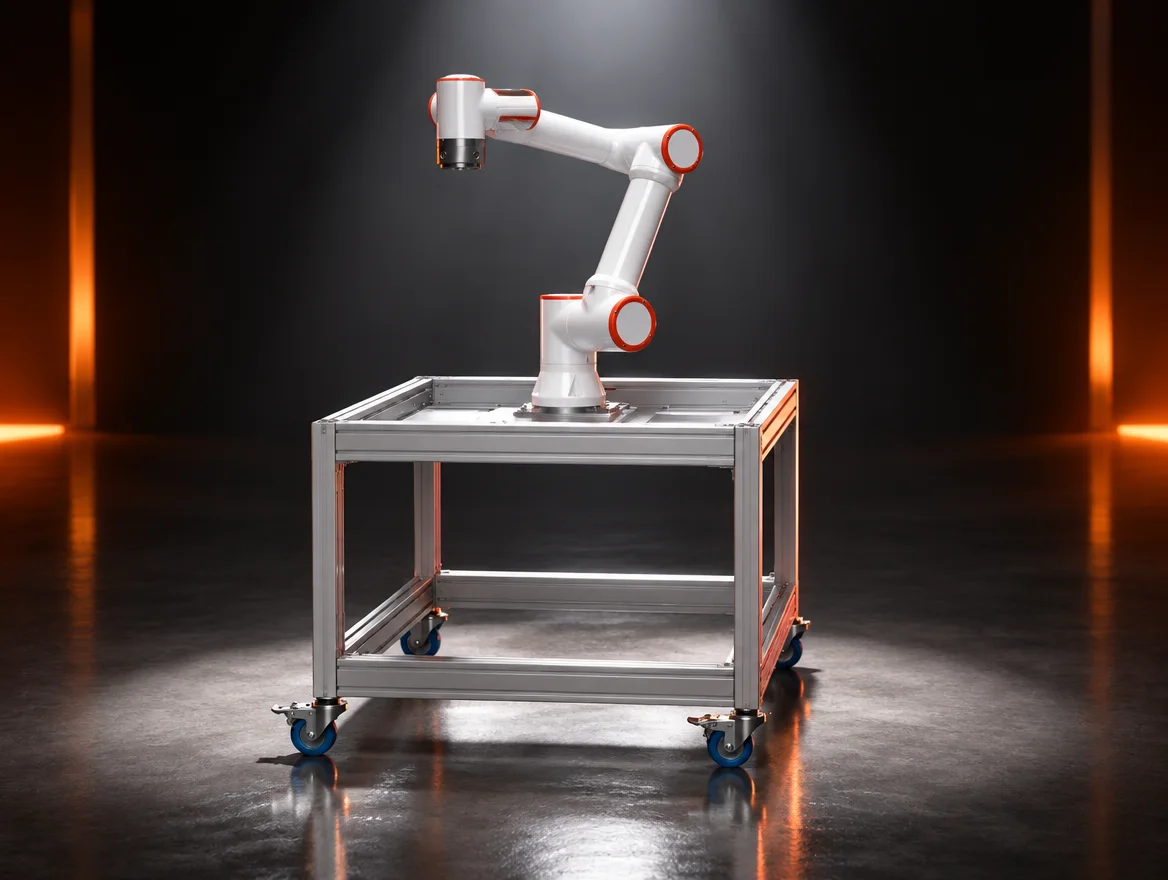
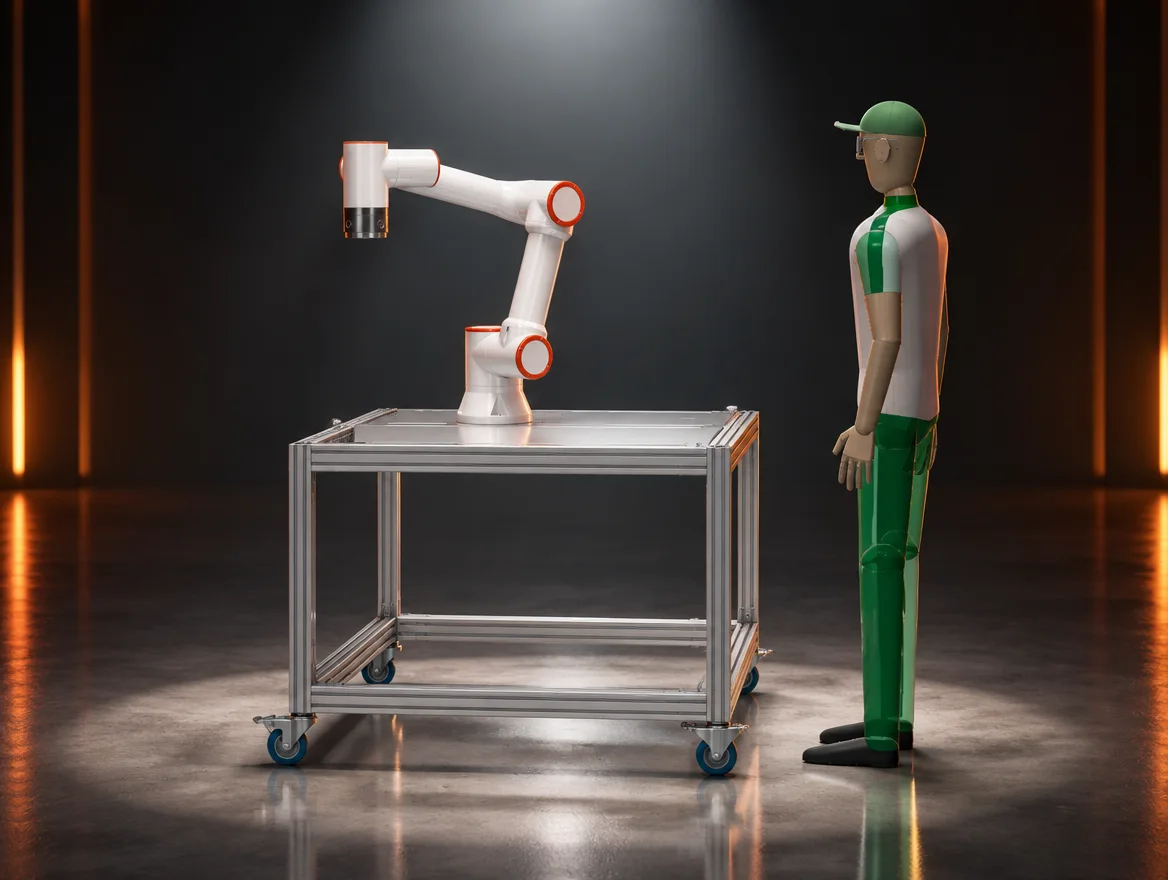
Mesa de trabajo modular: la escena del foco, con la figura humana a escala
Claude-Session: https://claude.ai/code/session_01E5KqVUeF4FGCAKMQhHRijH

diff --git a/assets-src/fabricantes/LEEME.md b/assets-src/fabricantes/LEEME.md
@@ -249,3 +249,5 @@ Renders de FAIRINO España con una figura humana (`fairino-espana/mesa-trabajo-*
   lo que se usa en la web: estudio `db1b1d56-f93f-445f-8925-428405fc26a7` → recorte `c6f1268b-e3a5-4247-a730-cb45a7d49436`,
   rayos `10e530f9-b055-4521-b227-aba9693113cd`, foco `6595a253-69ba-4c4c-b19f-078d396227de`,
   fábrica `220b01bd-f73f-43e8-8ebf-e8f2d6ae62ee`.
+- Escena del foco con la figura humana a escala (a petición de FAIRINO España): `b5788be7-c68f-44f8-9e3a-e4b8790a3e7b`
+  (alternativa desde la iso B: `5d112c2e-fdda-484f-9e15-51ef60ee35f7`).
